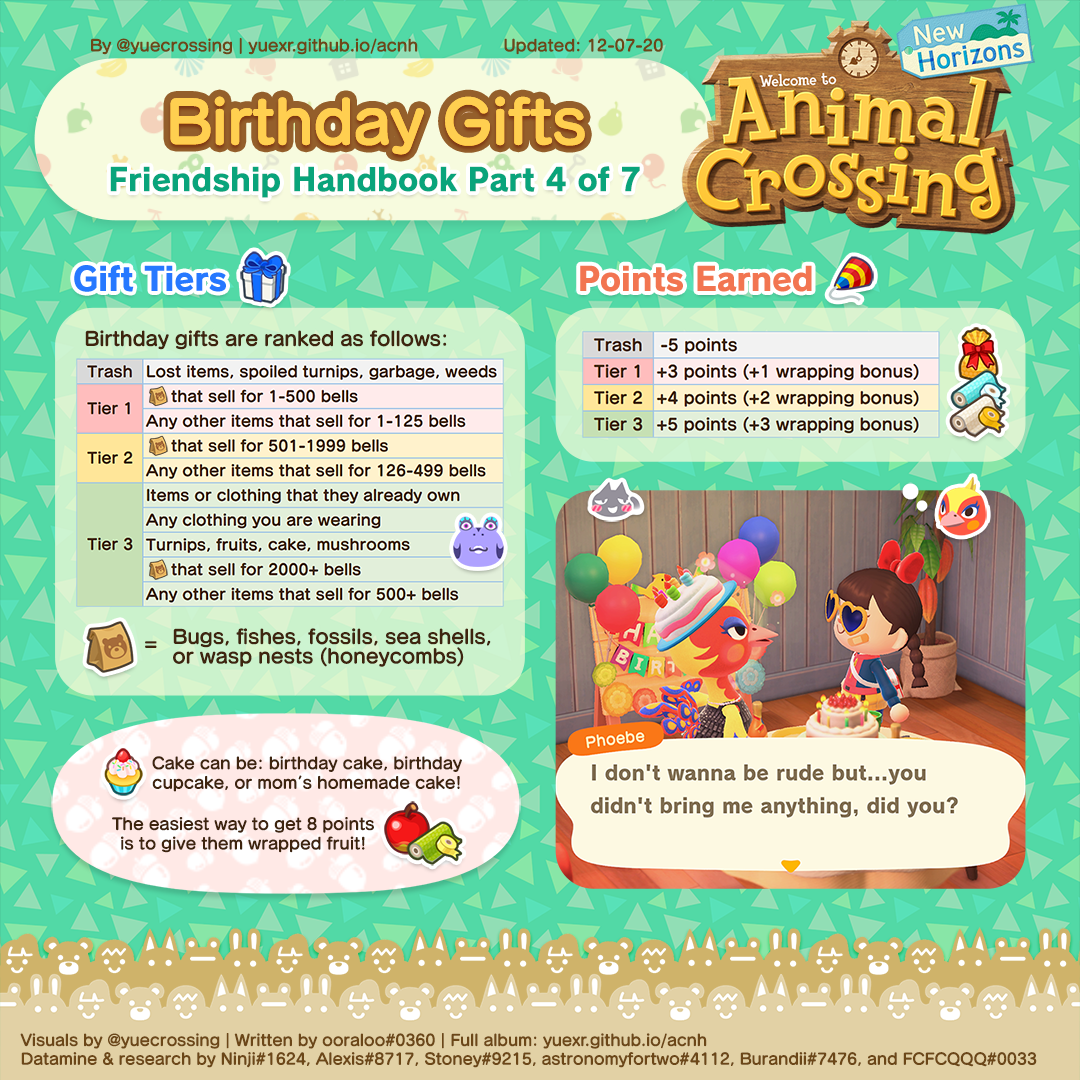
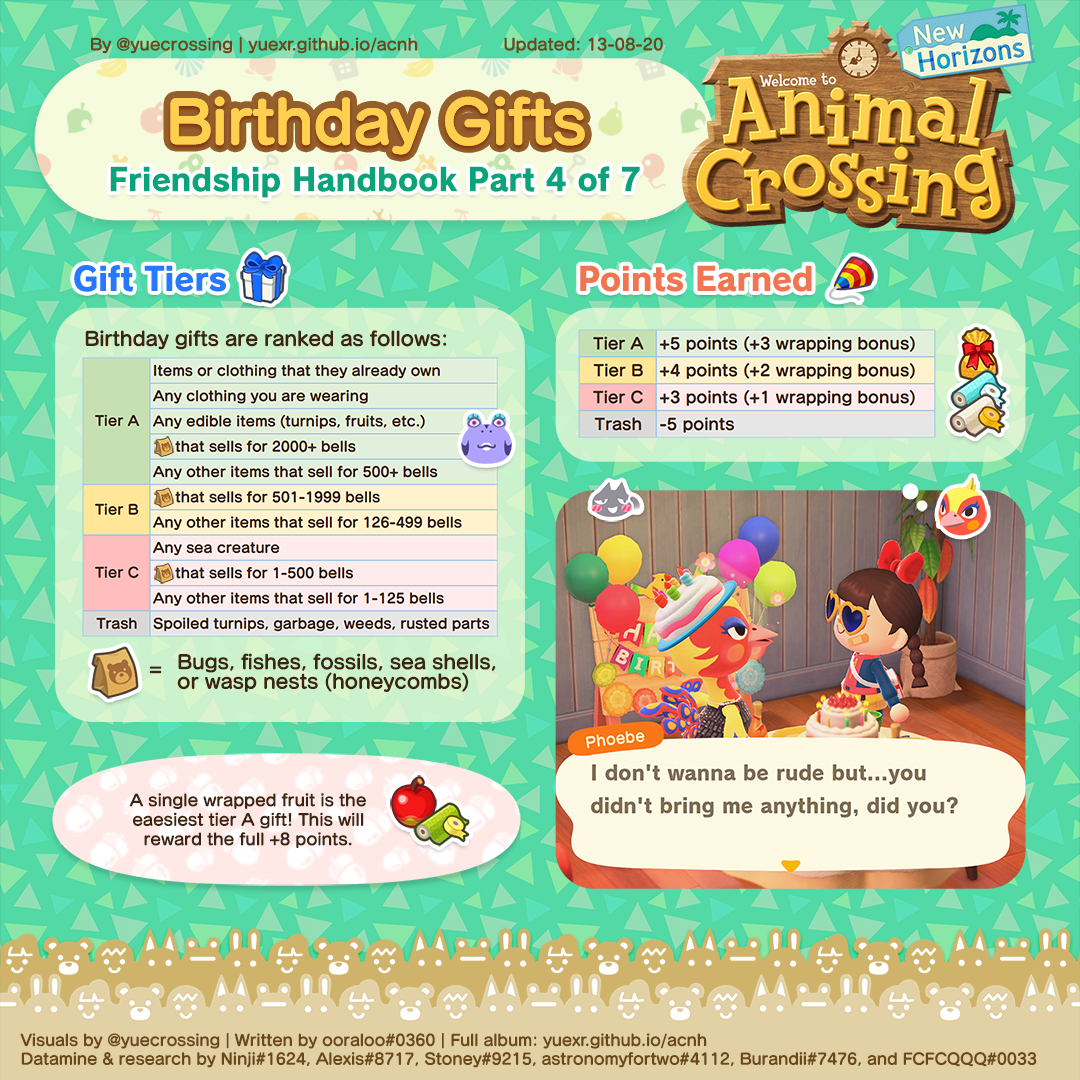
1.4 friendship update

diff --git a/acnh/friendship.html b/acnh/friendship.html
@@ -61,14 +61,10 @@
             </b></P>
 
             <p>
-                <b>IMPORTANT! Update 12-07-2020: Changes made for version 1.3.</b><br>
-                Major changes to "Daily Gift" mechanics, please refer to part 3!
+                <b>Update 12-07-2020 (version 1.3):</b> Changes to daily gift points rewards.<br>
+                <b>Update 13-08-2020 (version 1.4):</b> Changes to daily gift points sell prices, slight modification to birthday gifts.
             </p>
 
-            <p><b>Update 17-06-2020:</b> here are some <a href="./friendtips.html">friendship tips</a> to help you gain points faster!<br>
-                <b>Update 24-05-2020:</b> friendship lvl 5 also unlocks special <a href="./reactions.html">reactions</a>!
-                
-            </p>
             <img src="../img/fs/0.png" alt="friendship0"><br>
             <img src="../img/fs/1.png" alt="friendship1"><br>
             <img src="../img/fs/2.png" alt="friendship2"><br>

diff --git a/acnh/friendtips.html b/acnh/friendtips.html
@@ -59,10 +59,12 @@
                 Please read the <a href="./friendship.html"><b>Ultimate Friendship Handbook</b></a> for a full guide on how friendship and friendship points work.</p>
 
                 <p>
-                    <b>Update 12-07-2020: Changes made for version 1.3.</b> Tricks are the same but Fruit Stack Trick more applicable now.
+                    <b>Update 12-07-2020: Changes made for version 1.3.</b> Tricks are the same but Fruit Stack Trick more applicable now.<br>
+                    <b>Update 13-08-2020: Changes made for version 1.4.</b> Wrapped bells trick has been patched out.<br>
+                    
                 </p>
 
-            <img src="../img/friendtips2.png" alt="friendship tips"><br>
+            <img src="../img/friendtips.png" alt="friendship tips"><br>
             <hr>
 
             <h3>Credits:</h3>
